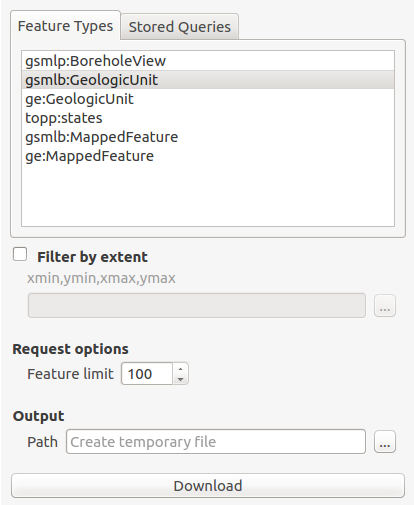
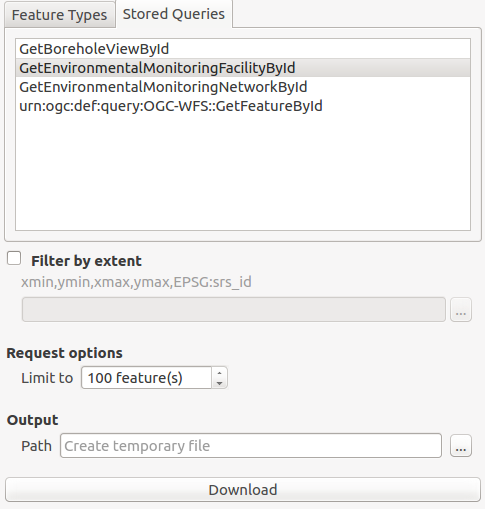
Update doc.

diff --git a/gml_application_schema_toolbox/doc/READ-DB-MODE.md b/gml_application_schema_toolbox/doc/READ-DB-MODE.md
@@ -15,42 +15,88 @@ In a relational approach, the main problem is to convert from an XML flow of Com
 [OGR GMLAS driver](http://www.gdal.org/drv_gmlas.html) is used to analyse XSDs and create the database model corresponding to the schema.
 
 
-![Feature info](img/read-db-gmlas.png)
-
-
-## Using PyXB (deprecated)
-
-This mode is deprecated and should be used only for demonstration purpose as some features are not available using GMLAS driver mode.
-
-
-[PyXB](http://pyxb.sourceforge.net/) is used to analyse the input document and create the database model.
-
-
-
-![Feature info](img/read-db-pyxb.png)
-
-
 Converting an XML instance into a relational SQL model generates numerous tables and relations between them.
 In order to expose the entire relational model inside QGIS, all the tables of the database must be loaded (including tables without geometries) and links between them must be declared.
 QGIS has a concept of “relations” that allows to declare 1:N relations between vector layers. These relations can then be used in the form view of layers to navigate the model.
 The plugin developed automatically generates a QGIS project with all the layers loaded and all the known relations declared.
 
 
-![Layer relations](img/read-db-pyxb-relations.png)
+The plugin configuration is the following:
+
+![GMLAS panel](img/read-db-gmlas.png)
 
 
-Layer forms are represented with three tabs:
-* a “column” tab that contains all the regular columns of the layer
-* an optional “1:N links” tab that contains (recursively) linked layers
-* an optional “Backlinks” tab that contains layers that point to the current layer
+First, define the input document to convert to a database.
+The input can be:
+
+* A GML file available on the computer
+
+* A URL pointing to a GML file
+
+* An XSD file
+
+In this last case, the XSD is analyzed to create the database
+structure with no data.
 
 
-![Feature form](img/read-db-pyxb-featureform.png)
+![GML or XSD source](img/read-db-gmlas-source.png)
 
 
-![Feature form](img/read-db-pyxb-featureformlink.png)
 
-Note that there is no specific code to implement this form view, only proper configurations of the QGIS project.
+Then define the configuration on how to read the GML or XSD file.
+
+The conversion is made by OGR and its GMLAS driver which provides
+advanced configuration using an XML file. Check the [GMLAS driver XSD](https://svn.osgeo.org/gdal/trunk/gdal/data/gmlasconf.xsd)
+to discover all options available.
+ 
+The plugin provides 2 configuration files:
+
+* ```gmlasconf.xml```: which is the default
+
+* ```gmlasconf-inspire.xml```: which provide some specific configuration related to INSPIRE (ie. XLink resolution with the INSPIRE Registry)
+
+
+Based on this configuration file, then some extra options are also defined in the user interface:
+
+* ```Remove unused layers``` will clean up empty tables at the end of the process
+
+* ```Remove unused fields``` will clean up empty columns at the end of the process
+
+Those options are defined in the XML configuration but are overriden by the plugin when starting the conversion.
+
+Click on the ```Load layer list``` button to analyze the GML and its XSD to list all layers availables.
+
+![GMLAS config](img/read-db-gmlas-config.png)
+
+
+User can optionally restrict to an area of interest by selecting the area on the map canvas:
+
+![GMLAS config](img/read-db-gmlas-extent.png)
+
+More advanced options allow:
+
+* ```Create OGR metadata tables```: OGR metadata tables. Those tables are required if you plan to write the database content back to GML.
+
+* ```Create null constraint```: Creation of database null checks. Turn this off to be less strict eg. when GML file may contains null values on XSD non null elements.
+
+* ```Convert to linear geometry```: Enable it to convert non-linear geometries types into linear geometries by approximating them. This is useful when database geometry type is more strict than the GML one. eg. enable it if 'Cannot create geometry field of type MULTISURFACE'
+
+* ```Swap coordinates```: Depending on the spatial reference system (SRS), coordinate order is defined by the SRS code. It may happen that x and y are in wrong order as defined by the SRS (ie. the file is probably invalid). Use this option to swap coordinates.
+
+* ```Skip failures```: Continue after a failure, skipping the failed feature. Better not to use it for better performance.
+
+* ```Language```: For XLink resolution (eg. resources resolved from INSPIRE registry), define which language to use in HTTP header 'Accep-Language'.
+
+![GMLAS config](img/read-db-gmlas-otheroptions.png)
+
+
+Finally, define the target database:
+
+
+![GMLAS config](img/read-db-gmlas-target.png)
+
+
+
 
 
 
@@ -64,60 +110,7 @@ The plugin also exposes a dialog that allows to display the relational model cre
 On each table, a button allows to directly open the attribute table of the given layer.
 
 
-For the time being only file opened with PyXB mode can use the schema view. By future work, schema view may also support any databases schema (eg. PostGIS & SQLite created by the GMLAS driver). 
-
-
-
-## Note about XSD conversion for PyXB mode
-
-### XSD downloading and caching
-
-The very first step in this approach is to collect every XSD documents to properly define the whole application schema.
-The starting point is the XML file passed as input. It contains namespace resolution directives that can be used to download XSD documents describing the schema. These documents may in turn have references to other XSD documents (through ```<include>``` or ```<import>```).
-Because the number of XSD files to download for a given application schema may be important, they are cached in a local directory. Before trying to download XSD documents, the cache is requested.
-By default the cache directory is set to a temporary directory.
-
-
-### XSD to SQL conversion
-
-Converting an XSD model, and more generally an object model into a relational model requires choices to be done, since the relational model is, in essence, poorer than a complete object model.
-The basic rules used for the conversion are the following:
-
-1. each attribute is represented by a column
-
-2. an element with maxOccurs = “unbounded” is considered as a 1-N link. A new table will be created with a foreign key constraint
-
-3. an element with maxOccurs = 1 is represented as a column, but only if its type is simple. If its type is complex, a new table is created with a foreign key constraint
-
-4. elements that inherit from AbstractGeometryType are represented as a geometry column
-
-5. if minOccurs = 0 or nillable = true, the link or the column is declared as optional (may be NULL)
-
-6. substitution groups are processed as follows: for two types A and B of a substitution group SG, three tables SG, A and B are created. In SG, two foreign keys “a_id” and “b_id” pointing to A and B are added with a CHECK constraint that express the “exclusive or” : an SG can be either an A or B, but not both. This mechanism is generalized when there are more than two types in the substitution group.
-
-7. If an element has an “id” attribute, it means it may be referenced by another element, through an href link. A new table is then created in that case.
-
-Naively applying this set of rules to an XSD schema gives most of the time a huge number of tables that is very hard for the end user to figure out and manipulate.
-This is due to the fact that OpenGIS schemas are very rich and contains lots of optional possibilities.
-We spent some time on the conversion process in order to simplify the resulting relational model.
-
-
-This leads the PyXb conversion mode to the following heuristics rules.
-
-#### Table merging
-
-The rule number 3 is modified so that if the compound type of an element is composed itself of unitary elements (maxOccurs=1), then a new table is not necessary and members of the element can be represented as columns by concatenation.
-
-We then introduced an option to set the maximum number of tables than can be “merged” this way under the attribute ```Maximum table merging depth```.
-
-#### Conversion driven by the instance
-
-We also decided to drive the conversion based on the XML instance and not the XSD schema. It prevents the number of empty tables to grow if nothing fills them in the instance. The conversion of each complex feature may modify the current relational model by adding new columns or new tables. Tables that have been merged in a first step may also be ```unmerged``` if the merge is no longer possible.
-
-#### Merge of unitary sequences
-
-Some elements may be declared as sequences, resulting in the creation of a table with a foreign key. But there are lots of cases where sequences are most of the time populated with only one element. An option then allows to consider by default sequences as unitary elements (and thus merge-able). When a feature actually has more than one member in the sequence, the model is modified and a new table is created.
-
-
-
+For the time being only file opened with PyXB mode can use 
+the schema view. By future work, schema view may also 
+support any databases schema (eg. PostGIS & SQLite created by the GMLAS driver). 
 

diff --git a/gml_application_schema_toolbox/doc/README.md b/gml_application_schema_toolbox/doc/README.md
@@ -15,7 +15,7 @@ This plugin works with QGIS3+.
 
 ## Context
 
-BRGM is involved for a long time in the definition of interoperability standards especially linked to OGC and the European INSPIRE directive initiatives. Existing tools being limited for an easy exploitation of these standards, this project aims at developing a prototype around QGIS and open source software pieces.
+In the context of the definition of interoperability standards especially linked to OGC and the European INSPIRE directive initiatives, existing tools being limited for an easy exploitation of these standards, this project aims at developing a QGIS plugin relying on OGR library to deal with GML Application Schema datasets.
 
 In particular, the aim is to develop tools to **manipulate Complex Features streams in a GIS desktop application**.
 
@@ -51,8 +51,8 @@ Most of the example below are based on:
 ## Authors
 
 The plugin has been funded by:
-* [BRGM](http://www.brgm.fr/) - January-June 2016
-* [European Union's Earth observation programme Copernicus](http://www.copernicus.eu/), as part of the tasks delegated to the European Environment Agency - June-December 2016
+* [BRGM](http://www.brgm.fr/) - BRGM is involved for a long time in the definition of interoperability standards especially linked to OGC and the European INSPIRE directive initiatives. 
+* [European Union's Earth observation programme Copernicus](http://www.copernicus.eu/), as part of the tasks delegated to the European Environment Agency
 
 The plugin has been developed by [Oslandia](http://www.oslandia.com/), [Camptocamp](http://www.camptocamp.com/) and rely on [OGR GMLAS driver](http://www.gdal.org/drv_gmlas.html) developed by [Spatialys](http://www.spatialys.com/).
 

diff --git a/README.md b/README.md
@@ -14,7 +14,7 @@ This plugin works with QGIS3+.
 
 ## Context
 
-BRGM is involved for a long time in the definition of interoperability standards especially linked to OGC and the European INSPIRE directive initiatives.
+In the context of the definition of interoperability standards especially linked to OGC and the European INSPIRE directive initiatives, existing tools being limited for an easy exploitation of these standards, this project aims at developing a QGIS plugin relying on OGR library to deal with GML Application Schema datasets.
 
 Existing tools being limited for an easy exploitation of these standards, this project aims at developing a prototype around QGIS and open source software pieces.
 
@@ -52,8 +52,8 @@ Most of the example below are based on:
 ## Authors
 
 The plugin has been funded by:
-* [BRGM](http://www.brgm.fr/) - January-June 2016
-* [European Union's Earth observation programme Copernicus](http://www.copernicus.eu/), as part of the tasks delegated to the European Environment Agency - June-December 2016
+* [BRGM](http://www.brgm.fr/) - BRGM is involved for a long time in the definition of interoperability standards especially linked to OGC and the European INSPIRE directive initiatives. 
+* [European Union's Earth observation programme Copernicus](http://www.copernicus.eu/), as part of the tasks delegated to the European Environment Agency
 
 The plugin has been developed by [Oslandia](http://www.oslandia.com/), [Camptocamp](http://www.camptocamp.com/) and rely on [OGR GMLAS driver](http://www.gdal.org/drv_gmlas.html) developed by [Spatialys](http://www.spatialys.com/).
 

diff --git a/gml_application_schema_toolbox/doc/DOWNLOAD.md b/gml_application_schema_toolbox/doc/DOWNLOAD.md
@@ -19,11 +19,17 @@ In the ```download``` tab define the target service to download data from:
 ![Configure target WFS service](img/download-service.png)
 
 
-Once set, connect to the service using the ```GetCapabilities``` button. The ```Show capabilities``` provides a simple preview of the GetCapabilities document. After connection, the list of ```Feature Types``` and ```Stored Queries``` are populated.
+Once set, connect to the service using the ```Get capabilities``` button. 
+The ```Show capabilities``` provides a simple preview of the 
+GetCapabilities document. After connection, the list of 
+```Feature Types``` and ```Stored Queries``` are populated.
 
 
-In case of error, a notification pops up with information about the problem:
+In case of error, a notification pops up with information about 
+the problem. Check also the log panel for more details about the error:
 
+
+![Download from bad URL](img/download-service-bad-url.png)
 
 
 ## Download data
@@ -38,4 +44,14 @@ To download data in GML format, set the following parameters:
 Click the ```Download``` button to start the download.
 
 ![Configure target feature type or stored query to download](img/download-data.png)
+
+
+After download, the convert panel is activated with the path to the downloaded file.
+
+## Download from URL
+
+The panel can also be used to download file from a URL. This URL 
+could point to an existing GML file or could be a ```GetFeature``` request.
+
+![Download from URL](img/download-from-url.png)
 

diff --git a/gml_application_schema_toolbox/README.md b/gml_application_schema_toolbox/README.md
@@ -1,15 +1,4 @@
-GML application schema toolbox
-==============================
+### GML application schema toolbox QGIS plugin
 
-This directory contains the QGIS plugin that demonstrates the manipulation of
-Complex Features in two modes (native XML or relational).
 
-It relies on a library called [gml2relational](gml2relational) that does the conversion
-from XML to a relational model and export the conversion both to a database (Sqlite) and to a QGIS project file.
-
-The plugin will overload standard QGIS identify / attribute table tools so that XML data can be
-seen as an XML-tree widget (in XML mode) or as a bunch of related tables (in relational mode).
-
-Some complex types can have a custom viewer widget provided by the library. A description of such
-a feature can be found in the [viewer](viewers) direcotry.
-
+See https://github.com/INSPIRE-MIF/gml_application_schema_toolbox for more information.

diff --git a/gml_application_schema_toolbox/doc/READ-CUSTOM.md b/gml_application_schema_toolbox/doc/READ-CUSTOM.md
@@ -12,14 +12,10 @@ The idea behind this custom viewer is to offer an API that could be used by thir
 The ```time series``` custom viewer is shipped with the current plugin. It is associated with ```wml2:MeasurementTimeseries``` elements. In both modes (native XML or relational), a button allows to display time series thanks to this custom viewer.
 
 
-* In XML mode
+In XML mode
 
 ![Time series button in XML mode](img/read-custom-timeseries.png)
 
-
-* In DB PyXB mode
-
-![Time series button in database mode](img/read-custom-timeseries-db.png)
 
 
 

diff --git a/gml_application_schema_toolbox/doc/OVERVIEW.md b/gml_application_schema_toolbox/doc/OVERVIEW.md
@@ -5,6 +5,9 @@
 Use [QGIS plugin manager](http://docs.qgis.org/2.14/en/docs/training_manual/qgis_plugins/fetching_plugins.html) to install the plugin from the repository.
 
 
+![Plugin manager](img/install-plugin.png)
+
+
 ## From sourcecode
 
 The plugin source code is available here: https://github.com/INSPIRE-MIF/gml_application_schema_toolbox
